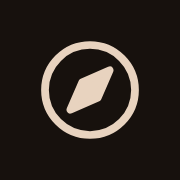
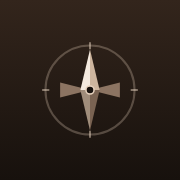
Ícone novo (rosa dos ventos) e cores revisadas para ler melhor sem cansar
- Ícone: rosa dos ventos em relevo sobre marrom com leve degradê (app, tela de
  início do tablet e versão adaptável)
- Escuro: texto creme em ~13:1 (antes 16:1, que cansa), cards e camadas um pouco
  mais claros que o fundo para dar profundidade, texto fraco mais legível
- Campos de formulário com borda de 3:1 em todas as telas (WCAG 1.4.11)
- Claro: bordas mais visíveis e laranja de urgente com contraste suficiente

Claude-Session: https://claude.ai/code/session_01NudoChP4KHxLehzD7XpU13

Changed region(s): [[0.2222, 0.2222, 0.7778, 0.7778], [0.0, 0.0, 1.0, 0.1389]]

diff --git a/css/temas.css b/css/temas.css
@@ -9,16 +9,19 @@
   color-scheme: dark;
 
   --cor-fundo: #17110D;
-  --cor-superficie: #221912;
-  --cor-superficie-2: #2D2119;
-  --cor-superficie-elevada: #33261D;
-  --cor-borda: #3E2F25;
-  --cor-trilho: #3A2C22;
+  /* Profundidade no escuro: quanto mais "alto" o elemento, um pouco mais claro (cards se destacam do fundo) */
+  --cor-superficie: #281E16;
+  --cor-superficie-2: #352820;
+  --cor-superficie-elevada: #3D2F24;
+  --cor-borda: #514034;
+  --cor-borda-campo: #86705D; /* campos de formulário: 3:1 com o card (WCAG 1.4.11) */
+  --cor-trilho: #45362A;
   --cor-veu: rgba(10, 7, 5, 0.6);
 
-  --cor-texto: #F4EADF;
+  /* Texto creme um pouco abaixo do máximo (13:1 em vez de 16:1): lê bem e não "brilha" nem cansa */
+  --cor-texto: #E6D9CB;
   --cor-texto-suave: #C7B6A5;
-  --cor-texto-fraco: #A08D7B;
+  --cor-texto-fraco: #B19E8B;
 
   --cor-destaque: #E8D3BF;
   --cor-destaque-suave: rgba(232, 211, 191, 0.13);
@@ -74,12 +77,13 @@
 :root[data-tema="claro"] {
   color-scheme: light;
 
-  --cor-fundo: #F7F1EA;
+  --cor-fundo: #F5EEE5;
   --cor-superficie: #FFFCF8;
   --cor-superficie-2: #F1E7DC;
   --cor-superficie-elevada: #FFFFFF;
-  --cor-borda: #E6D8C8;
-  --cor-trilho: #EADDCF;
+  --cor-borda: #D6C3AE;
+  --cor-borda-campo: #957C68; /* campos de formulário: 3:1 com o card (WCAG 1.4.11) */
+  --cor-trilho: #E3D4C3;
   --cor-veu: rgba(43, 30, 22, 0.4);
 
   --cor-texto: #2B1E16;
@@ -100,7 +104,7 @@
   --urg-atrasado: #C0392B;
   --urg-atrasado-fundo: #F9DED8;
   --urg-atrasado-texto: #9B2C20;
-  --urg-urgente: #D2802A;
+  --urg-urgente: #B0640F;
   --urg-urgente-fundo: #F8E4CB;
   --urg-urgente-texto: #8A4A0C;
   --urg-semana: #B8946F;

diff --git a/js/icones.js b/js/icones.js
@@ -29,7 +29,7 @@ const CAMINHOS = {
   claro: 'M12 16a4 4 0 1 0 0-8 4 4 0 0 0 0 8z M12 2v2 M12 20v2 M4.9 4.9l1.4 1.4 M17.7 17.7l1.4 1.4 M2 12h2 M20 12h2 M4.9 19.1l1.4-1.4 M17.7 6.3l1.4-1.4',
   escuro: 'M20 14.5A8 8 0 1 1 9.5 4a6.5 6.5 0 0 0 10.5 10.5z',
   auto: 'M12 21a9 9 0 1 0 0-18 9 9 0 0 0 0 18z M12 3v18',
-  marca: 'M12 3a9 9 0 1 0 0 18a9 9 0 1 0 0-18z M15.5 8.5l-2 5l-5 2l2-5z',
+  marca: 'M12 2.8l2.1 7.1 7.1 2.1-7.1 2.1L12 21.2l-2.1-7.1L2.8 12l7.1-2.1z',
 };
 
 export function icone(nome) {

diff --git a/css/padroes.css b/css/padroes.css
@@ -167,3 +167,8 @@
 .conteudo[data-tela="recompensas"] > * + * {
   margin-top: 16px;
 }
+
+/* Campos de formulário com borda visível (3:1), em todas as telas e folhas */
+body :is(input:not([type="checkbox"]):not([type="radio"]):not([type="range"]):not([type="color"]), select, textarea) {
+  border-color: var(--cor-borda-campo);
+}

diff --git a/sw.js b/sw.js
@@ -1,7 +1,7 @@
 // Service worker: guarda os arquivos do app para abrir rápido e funcionar sem internet.
 // Ao mudar qualquer arquivo da lista, aumente a VERSAO para o app oferecer a atualização.
 
-const VERSAO = 'hub-v39';
+const VERSAO = 'hub-v40';
 
 const ARQUIVOS = [
   './',

diff --git a/CLAUDE.md b/CLAUDE.md
@@ -41,7 +41,8 @@ App pessoal de vida, rotina e estudos (uso exclusivo da Carol), instalável como
 A base é a identidade da Central de Conteúdo.
 
 - **Tema escuro (padrão da Central)**: fundo marrom bem escuro (`#17110D`), cards em marrom quente, destaque bege/areia (`#E8D3BF`) e texto creme.
-- **Tema claro (novo)**: fundo creme/papel (`#F7F1EA`), cards brancos quentes, texto marrom-café (`#2B1E16`) e o mesmo bege como destaque, com contraste mínimo AA.
+- **Tema claro (novo)**: fundo creme/papel (`#F5EEE5`), cards brancos quentes, texto marrom-café (`#2B1E16`) e o mesmo bege como destaque, com contraste mínimo AA.
+- Contraste revisado em 27/10/2026: texto principal ~13:1 (não no máximo, para não cansar), campos com borda de 3:1 (`--cor-borda-campo`), cards um pouco mais claros que o fundo no escuro.
 - Alternância entre **claro, escuro e automático** (segue o sistema), com a escolha salva no aparelho.
 - Todas as cores ficam definidas como variáveis CSS em `:root` e `[data-tema="claro"]` / `[data-tema="escuro"]`. Nenhuma cor deve ficar escrita direto nos componentes.
 - Padrões da Central que se repetem no app:
